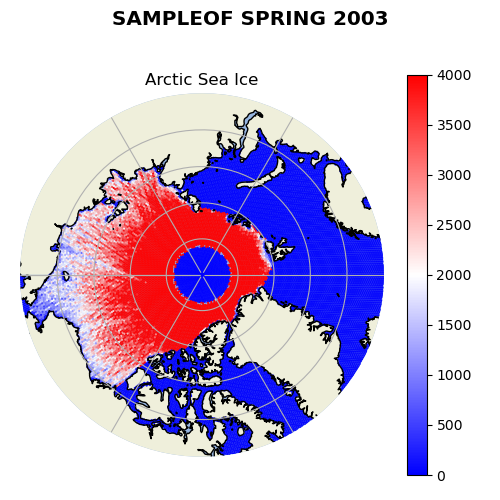
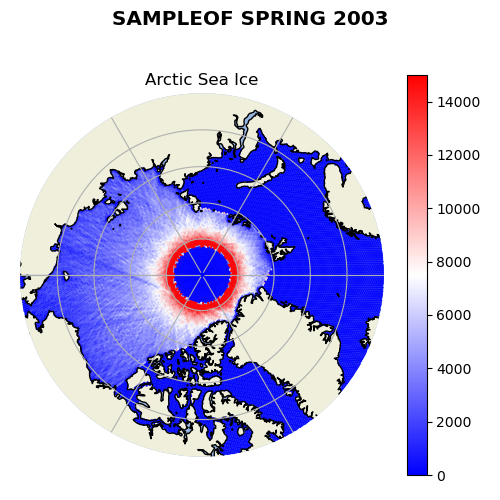
ran sampleof for all years

diff --git a/practice_plotting/config.py b/practice_plotting/config.py
@@ -48,8 +48,8 @@ VMIN = 0
 #VMAX = 0.7    # Good for Freeboard
 #VMAX = 150    # for ALL FILES - samplemf the max is 295, but there are not many cells that go above 150 samples; 100 is too low
 #VMAX = 25      # for spring 2003 - there are not many cells that go above 45 samples;
-#VMAX = 15000  # for ALL FILES - sampleof the max is 46893, but there are not that many tracks that go about 15000 samples; 20000 looks ok 
-VMAX = 4000    # for spring 2003
+VMAX = 15000  # for ALL FILES - sampleof the max is 46893, but there are not that many tracks that go about 15000 samples; 20000 looks ok 
+#VMAX = 4000    # for spring 2003
 #VMAX = 1.1 # for meanof
 #VMAX = 1   # for stdof
 
